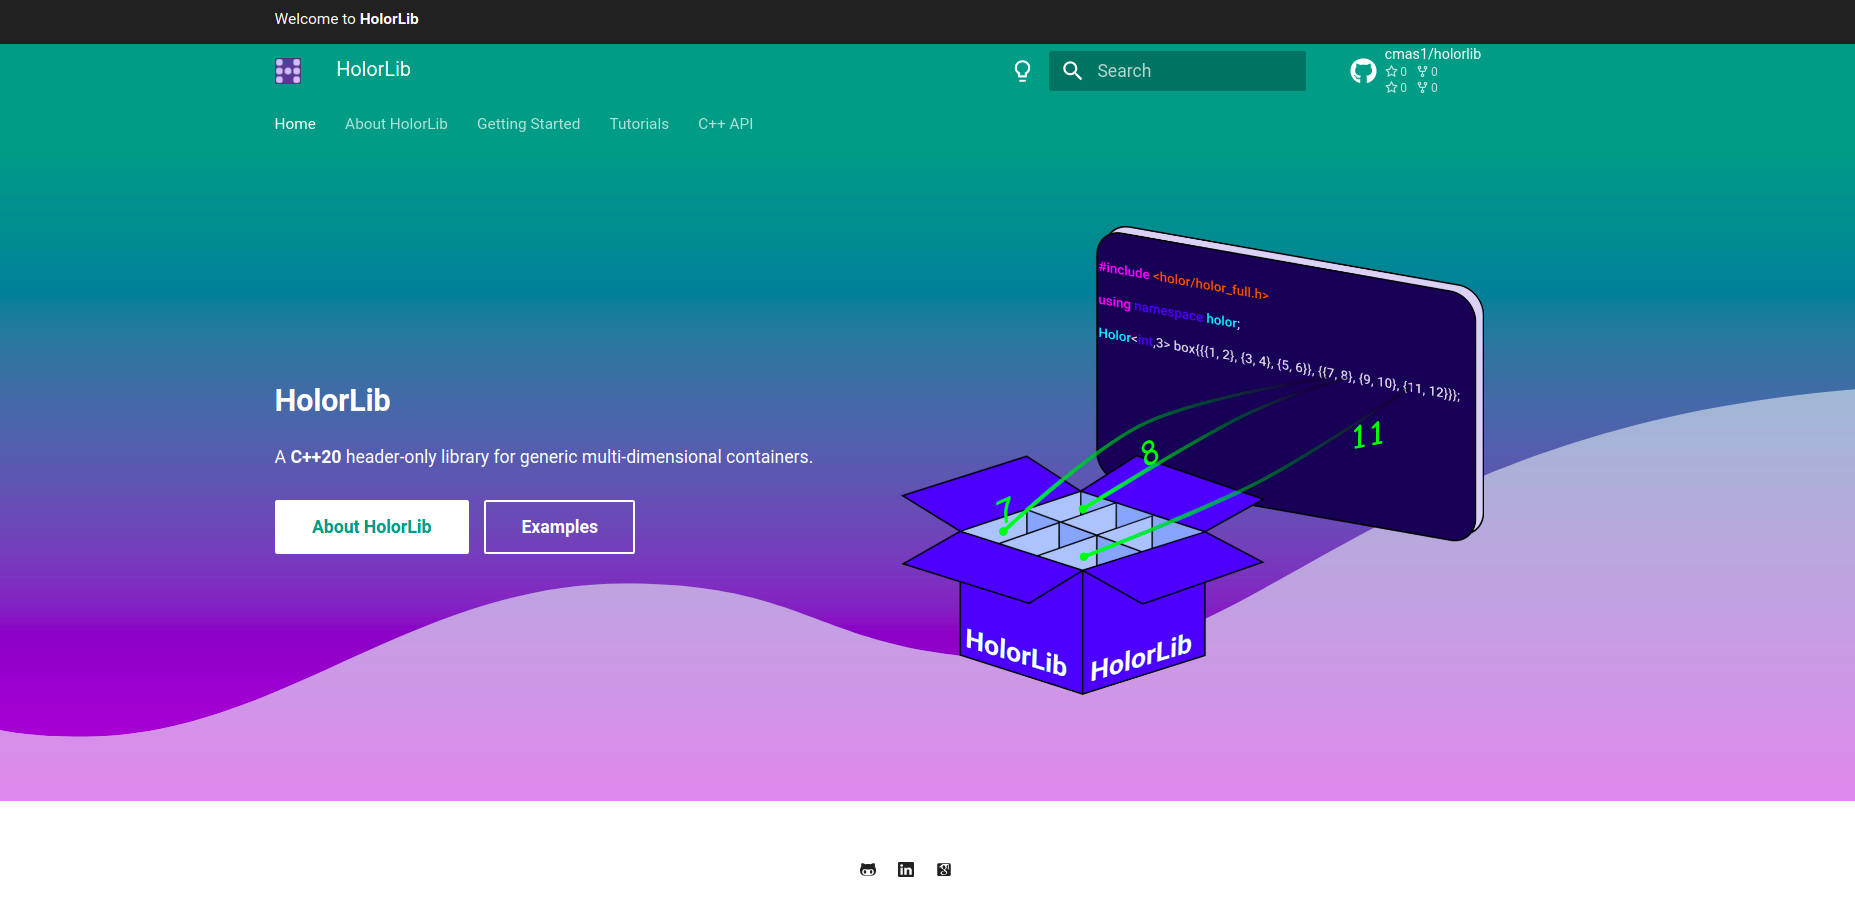
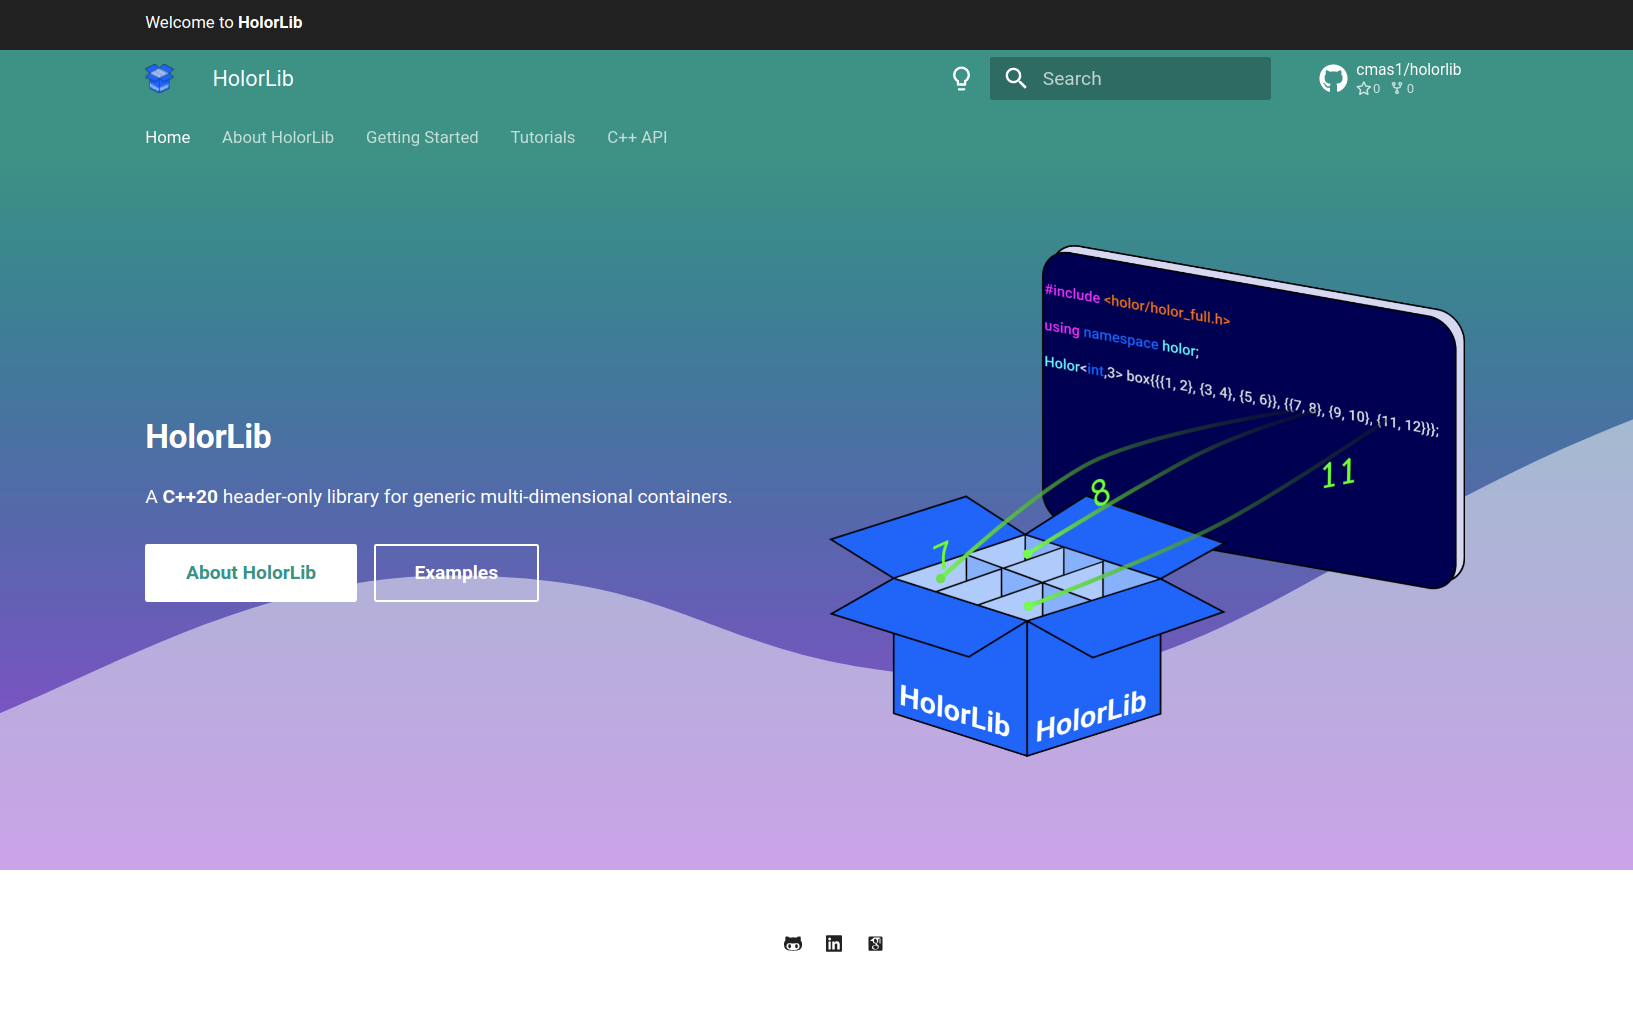
Deployed adff2dd with MkDocs version: 1.2.2

diff --git a/404.html b/404.html
@@ -14,7 +14,7 @@
         <meta name="author" content="Carlo Masone">
       
       
-      <link rel="icon" href="/HolorLib/images/holor_logo_new.png">
+      <link rel="icon" href="/HolorLib/images/holorlib_logo_small.png">
       <meta name="generator" content="mkdocs-1.2.2, mkdocs-material-7.3.1">
     
     
@@ -95,7 +95,7 @@
   <nav class="md-header__inner md-grid" aria-label="Header">
     <a href="/HolorLib/index.html" title="HolorLib" class="md-header__button md-logo" aria-label="HolorLib" data-md-component="logo">
       
-  <img src="/HolorLib/images/holor_logo_new.png" alt="logo">
+  <img src="/HolorLib/images/holorlib_logo_small.png" alt="logo">
 
     </a>
     <label class="md-header__button md-icon" for="__drawer">
@@ -311,7 +311,7 @@
   <label class="md-nav__title" for="__drawer">
     <a href="/HolorLib/index.html" title="HolorLib" class="md-nav__button md-logo" aria-label="HolorLib" data-md-component="logo">
       
-  <img src="/HolorLib/images/holor_logo_new.png" alt="logo">
+  <img src="/HolorLib/images/holorlib_logo_small.png" alt="logo">
 
     </a>
     HolorLib

diff --git a/tutorials/indexing_slicing.html b/tutorials/indexing_slicing.html
@@ -16,7 +16,7 @@
       
         <link rel="canonical" href="https://cmas1.io/HolorLib/tutorials/indexing_slicing.html">
       
-      <link rel="icon" href="../images/holor_logo_new.png">
+      <link rel="icon" href="../images/holorlib_logo_small.png">
       <meta name="generator" content="mkdocs-1.2.2, mkdocs-material-7.3.1">
     
     
@@ -102,7 +102,7 @@
   <nav class="md-header__inner md-grid" aria-label="Header">
     <a href="../index.html" title="HolorLib" class="md-header__button md-logo" aria-label="HolorLib" data-md-component="logo">
       
-  <img src="../images/holor_logo_new.png" alt="logo">
+  <img src="../images/holorlib_logo_small.png" alt="logo">
 
     </a>
     <label class="md-header__button md-icon" for="__drawer">
@@ -320,7 +320,7 @@
   <label class="md-nav__title" for="__drawer">
     <a href="../index.html" title="HolorLib" class="md-nav__button md-logo" aria-label="HolorLib" data-md-component="logo">
       
-  <img src="../images/holor_logo_new.png" alt="logo">
+  <img src="../images/holorlib_logo_small.png" alt="logo">
 
     </a>
     HolorLib

diff --git a/getting_started/optional.html b/getting_started/optional.html
@@ -16,7 +16,7 @@
       
         <link rel="canonical" href="https://cmas1.io/HolorLib/getting_started/optional.html">
       
-      <link rel="icon" href="../images/holor_logo_new.png">
+      <link rel="icon" href="../images/holorlib_logo_small.png">
       <meta name="generator" content="mkdocs-1.2.2, mkdocs-material-7.3.1">
     
     
@@ -102,7 +102,7 @@
   <nav class="md-header__inner md-grid" aria-label="Header">
     <a href="../index.html" title="HolorLib" class="md-header__button md-logo" aria-label="HolorLib" data-md-component="logo">
       
-  <img src="../images/holor_logo_new.png" alt="logo">
+  <img src="../images/holorlib_logo_small.png" alt="logo">
 
     </a>
     <label class="md-header__button md-icon" for="__drawer">
@@ -320,7 +320,7 @@
   <label class="md-nav__title" for="__drawer">
     <a href="../index.html" title="HolorLib" class="md-nav__button md-logo" aria-label="HolorLib" data-md-component="logo">
       
-  <img src="../images/holor_logo_new.png" alt="logo">
+  <img src="../images/holorlib_logo_small.png" alt="logo">
 
     </a>
     HolorLib

diff --git a/getting_started/install.html b/getting_started/install.html
@@ -16,7 +16,7 @@
       
         <link rel="canonical" href="https://cmas1.io/HolorLib/getting_started/install.html">
       
-      <link rel="icon" href="../images/holor_logo_new.png">
+      <link rel="icon" href="../images/holorlib_logo_small.png">
       <meta name="generator" content="mkdocs-1.2.2, mkdocs-material-7.3.1">
     
     
@@ -102,7 +102,7 @@
   <nav class="md-header__inner md-grid" aria-label="Header">
     <a href="../index.html" title="HolorLib" class="md-header__button md-logo" aria-label="HolorLib" data-md-component="logo">
       
-  <img src="../images/holor_logo_new.png" alt="logo">
+  <img src="../images/holorlib_logo_small.png" alt="logo">
 
     </a>
     <label class="md-header__button md-icon" for="__drawer">
@@ -320,7 +320,7 @@
   <label class="md-nav__title" for="__drawer">
     <a href="../index.html" title="HolorLib" class="md-nav__button md-logo" aria-label="HolorLib" data-md-component="logo">
       
-  <img src="../images/holor_logo_new.png" alt="logo">
+  <img src="../images/holorlib_logo_small.png" alt="logo">
 
     </a>
     HolorLib

diff --git a/about/holor_containers.html b/about/holor_containers.html
@@ -16,7 +16,7 @@
       
         <link rel="canonical" href="https://cmas1.io/HolorLib/about/holor_containers.html">
       
-      <link rel="icon" href="../images/holor_logo_new.png">
+      <link rel="icon" href="../images/holorlib_logo_small.png">
       <meta name="generator" content="mkdocs-1.2.2, mkdocs-material-7.3.1">
     
     
@@ -102,7 +102,7 @@
   <nav class="md-header__inner md-grid" aria-label="Header">
     <a href="../index.html" title="HolorLib" class="md-header__button md-logo" aria-label="HolorLib" data-md-component="logo">
       
-  <img src="../images/holor_logo_new.png" alt="logo">
+  <img src="../images/holorlib_logo_small.png" alt="logo">
 
     </a>
     <label class="md-header__button md-icon" for="__drawer">
@@ -320,7 +320,7 @@
   <label class="md-nav__title" for="__drawer">
     <a href="../index.html" title="HolorLib" class="md-nav__button md-logo" aria-label="HolorLib" data-md-component="logo">
       
-  <img src="../images/holor_logo_new.png" alt="logo">
+  <img src="../images/holorlib_logo_small.png" alt="logo">
 
     </a>
     HolorLib

diff --git a/about/origin_of_holor.html b/about/origin_of_holor.html
@@ -16,7 +16,7 @@
       
         <link rel="canonical" href="https://cmas1.io/HolorLib/about/origin_of_holor.html">
       
-      <link rel="icon" href="../images/holor_logo_new.png">
+      <link rel="icon" href="../images/holorlib_logo_small.png">
       <meta name="generator" content="mkdocs-1.2.2, mkdocs-material-7.3.1">
     
     
@@ -102,7 +102,7 @@
   <nav class="md-header__inner md-grid" aria-label="Header">
     <a href="../index.html" title="HolorLib" class="md-header__button md-logo" aria-label="HolorLib" data-md-component="logo">
       
-  <img src="../images/holor_logo_new.png" alt="logo">
+  <img src="../images/holorlib_logo_small.png" alt="logo">
 
     </a>
     <label class="md-header__button md-icon" for="__drawer">
@@ -320,7 +320,7 @@
   <label class="md-nav__title" for="__drawer">
     <a href="../index.html" title="HolorLib" class="md-nav__button md-logo" aria-label="HolorLib" data-md-component="logo">
       
-  <img src="../images/holor_logo_new.png" alt="logo">
+  <img src="../images/holorlib_logo_small.png" alt="logo">
 
     </a>
     HolorLib

diff --git a/getting_started/index.html b/getting_started/index.html
@@ -16,7 +16,7 @@
       
         <link rel="canonical" href="https://cmas1.io/HolorLib/getting_started/index.html">
       
-      <link rel="icon" href="../images/holor_logo_new.png">
+      <link rel="icon" href="../images/holorlib_logo_small.png">
       <meta name="generator" content="mkdocs-1.2.2, mkdocs-material-7.3.1">
     
     
@@ -102,7 +102,7 @@
   <nav class="md-header__inner md-grid" aria-label="Header">
     <a href="../index.html" title="HolorLib" class="md-header__button md-logo" aria-label="HolorLib" data-md-component="logo">
       
-  <img src="../images/holor_logo_new.png" alt="logo">
+  <img src="../images/holorlib_logo_small.png" alt="logo">
 
     </a>
     <label class="md-header__button md-icon" for="__drawer">
@@ -320,7 +320,7 @@
   <label class="md-nav__title" for="__drawer">
     <a href="../index.html" title="HolorLib" class="md-nav__button md-logo" aria-label="HolorLib" data-md-component="logo">
       
-  <img src="../images/holor_logo_new.png" alt="logo">
+  <img src="../images/holorlib_logo_small.png" alt="logo">
 
     </a>
     HolorLib

diff --git a/tutorials/iterators.html b/tutorials/iterators.html
@@ -16,7 +16,7 @@
       
         <link rel="canonical" href="https://cmas1.io/HolorLib/tutorials/iterators.html">
       
-      <link rel="icon" href="../images/holor_logo_new.png">
+      <link rel="icon" href="../images/holorlib_logo_small.png">
       <meta name="generator" content="mkdocs-1.2.2, mkdocs-material-7.3.1">
     
     
@@ -102,7 +102,7 @@
   <nav class="md-header__inner md-grid" aria-label="Header">
     <a href="../index.html" title="HolorLib" class="md-header__button md-logo" aria-label="HolorLib" data-md-component="logo">
       
-  <img src="../images/holor_logo_new.png" alt="logo">
+  <img src="../images/holorlib_logo_small.png" alt="logo">
 
     </a>
     <label class="md-header__button md-icon" for="__drawer">
@@ -320,7 +320,7 @@
   <label class="md-nav__title" for="__drawer">
     <a href="../index.html" title="HolorLib" class="md-nav__button md-logo" aria-label="HolorLib" data-md-component="logo">
       
-  <img src="../images/holor_logo_new.png" alt="logo">
+  <img src="../images/holorlib_logo_small.png" alt="logo">
 
     </a>
     HolorLib

diff --git a/tutorials/holorref.html b/tutorials/holorref.html
@@ -16,7 +16,7 @@
       
         <link rel="canonical" href="https://cmas1.io/HolorLib/tutorials/holorref.html">
       
-      <link rel="icon" href="../images/holor_logo_new.png">
+      <link rel="icon" href="../images/holorlib_logo_small.png">
       <meta name="generator" content="mkdocs-1.2.2, mkdocs-material-7.3.1">
     
     
@@ -102,7 +102,7 @@
   <nav class="md-header__inner md-grid" aria-label="Header">
     <a href="../index.html" title="HolorLib" class="md-header__button md-logo" aria-label="HolorLib" data-md-component="logo">
       
-  <img src="../images/holor_logo_new.png" alt="logo">
+  <img src="../images/holorlib_logo_small.png" alt="logo">
 
     </a>
     <label class="md-header__button md-icon" for="__drawer">
@@ -320,7 +320,7 @@
   <label class="md-nav__title" for="__drawer">
     <a href="../index.html" title="HolorLib" class="md-nav__button md-logo" aria-label="HolorLib" data-md-component="logo">
       
-  <img src="../images/holor_logo_new.png" alt="logo">
+  <img src="../images/holorlib_logo_small.png" alt="logo">
 
     </a>
     HolorLib

diff --git a/tutorials/layout.html b/tutorials/layout.html
@@ -16,7 +16,7 @@
       
         <link rel="canonical" href="https://cmas1.io/HolorLib/tutorials/layout.html">
       
-      <link rel="icon" href="../images/holor_logo_new.png">
+      <link rel="icon" href="../images/holorlib_logo_small.png">
       <meta name="generator" content="mkdocs-1.2.2, mkdocs-material-7.3.1">
     
     
@@ -102,7 +102,7 @@
   <nav class="md-header__inner md-grid" aria-label="Header">
     <a href="../index.html" title="HolorLib" class="md-header__button md-logo" aria-label="HolorLib" data-md-component="logo">
       
-  <img src="../images/holor_logo_new.png" alt="logo">
+  <img src="../images/holorlib_logo_small.png" alt="logo">
 
     </a>
     <label class="md-header__button md-icon" for="__drawer">
@@ -320,7 +320,7 @@
   <label class="md-nav__title" for="__drawer">
     <a href="../index.html" title="HolorLib" class="md-nav__button md-logo" aria-label="HolorLib" data-md-component="logo">
       
-  <img src="../images/holor_logo_new.png" alt="logo">
+  <img src="../images/holorlib_logo_small.png" alt="logo">
 
     </a>
     HolorLib

diff --git a/tutorials/holor.html b/tutorials/holor.html
@@ -16,7 +16,7 @@
       
         <link rel="canonical" href="https://cmas1.io/HolorLib/tutorials/holor.html">
       
-      <link rel="icon" href="../images/holor_logo_new.png">
+      <link rel="icon" href="../images/holorlib_logo_small.png">
       <meta name="generator" content="mkdocs-1.2.2, mkdocs-material-7.3.1">
     
     
@@ -102,7 +102,7 @@
   <nav class="md-header__inner md-grid" aria-label="Header">
     <a href="../index.html" title="HolorLib" class="md-header__button md-logo" aria-label="HolorLib" data-md-component="logo">
       
-  <img src="../images/holor_logo_new.png" alt="logo">
+  <img src="../images/holorlib_logo_small.png" alt="logo">
 
     </a>
     <label class="md-header__button md-icon" for="__drawer">
@@ -320,7 +320,7 @@
   <label class="md-nav__title" for="__drawer">
     <a href="../index.html" title="HolorLib" class="md-nav__button md-logo" aria-label="HolorLib" data-md-component="logo">
       
-  <img src="../images/holor_logo_new.png" alt="logo">
+  <img src="../images/holorlib_logo_small.png" alt="logo">
 
     </a>
     HolorLib

diff --git a/tutorials/index.html b/tutorials/index.html
@@ -16,7 +16,7 @@
       
         <link rel="canonical" href="https://cmas1.io/HolorLib/tutorials/index.html">
       
-      <link rel="icon" href="../images/holor_logo_new.png">
+      <link rel="icon" href="../images/holorlib_logo_small.png">
       <meta name="generator" content="mkdocs-1.2.2, mkdocs-material-7.3.1">
     
     
@@ -102,7 +102,7 @@
   <nav class="md-header__inner md-grid" aria-label="Header">
     <a href="../index.html" title="HolorLib" class="md-header__button md-logo" aria-label="HolorLib" data-md-component="logo">
       
-  <img src="../images/holor_logo_new.png" alt="logo">
+  <img src="../images/holorlib_logo_small.png" alt="logo">
 
     </a>
     <label class="md-header__button md-icon" for="__drawer">
@@ -320,7 +320,7 @@
   <label class="md-nav__title" for="__drawer">
     <a href="../index.html" title="HolorLib" class="md-nav__button md-logo" aria-label="HolorLib" data-md-component="logo">
       
-  <img src="../images/holor_logo_new.png" alt="logo">
+  <img src="../images/holorlib_logo_small.png" alt="logo">
 
     </a>
     HolorLib
